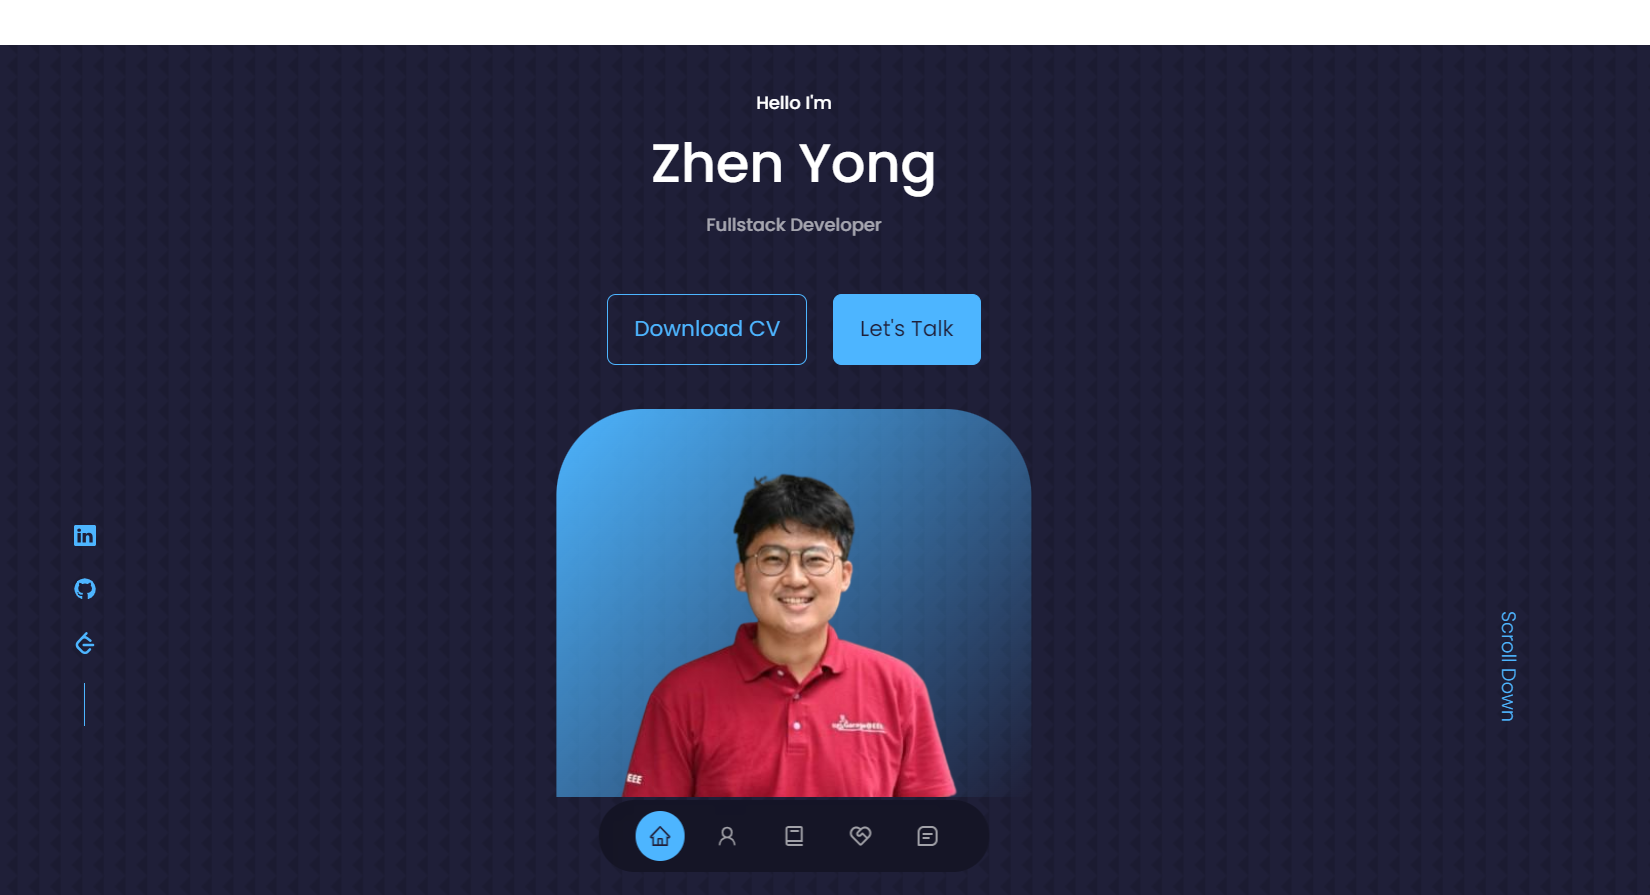
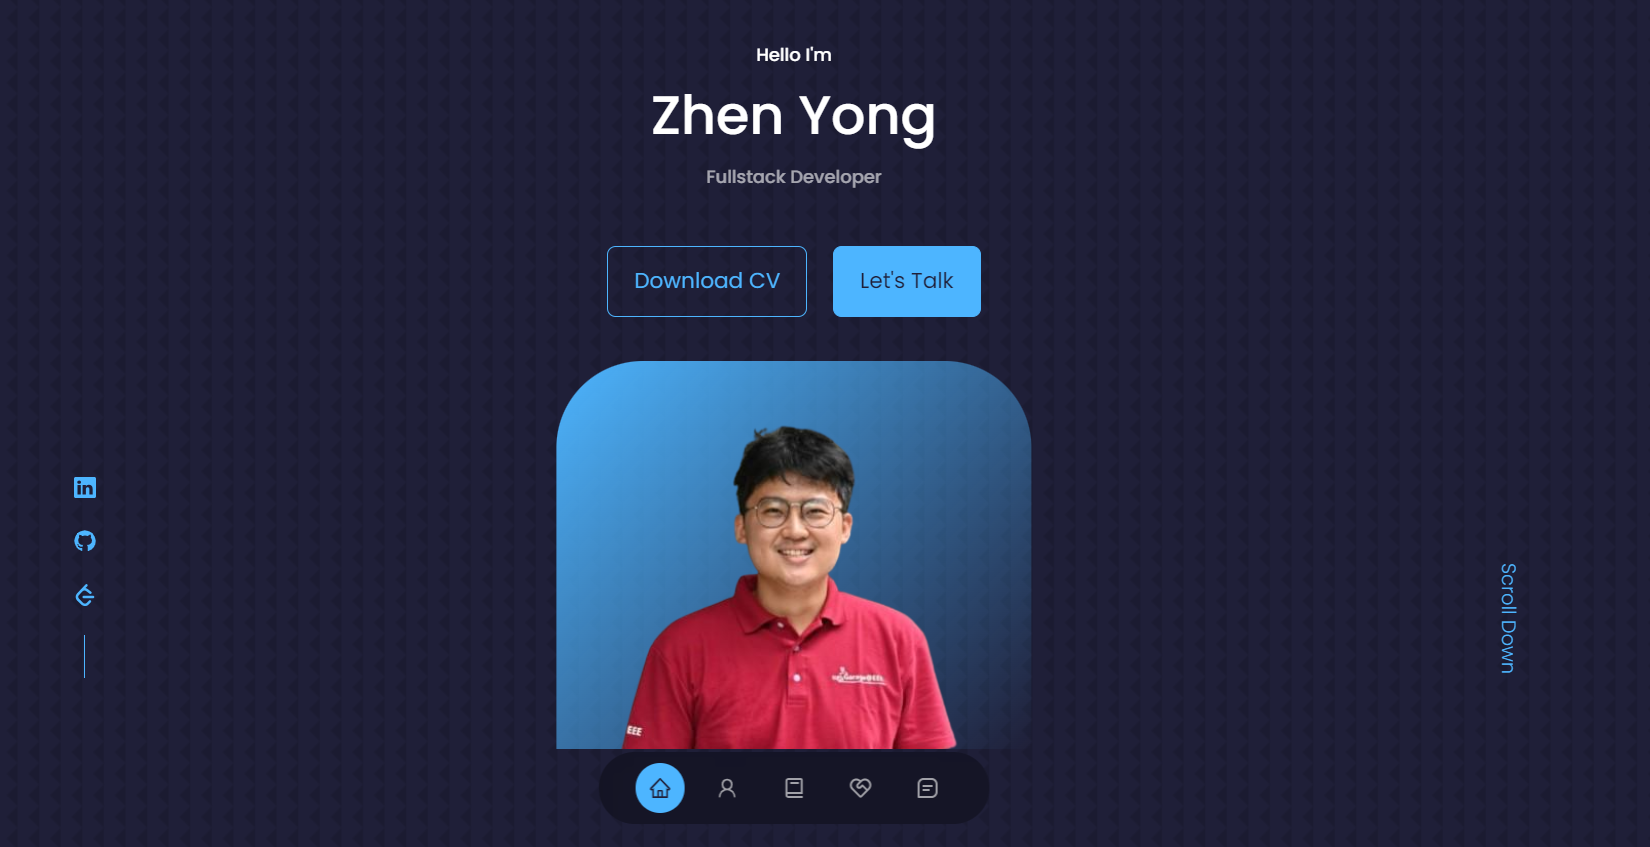
Updated Changes

diff --git a/src/components/portfolio/Portfolio.jsx b/src/components/portfolio/Portfolio.jsx
@@ -1,48 +1,46 @@
 import React from "react";
 import './portfolio.css';  
-import ME from '../../assets/profile_pic.png'
 import img1 from '../../assets/personal-react-portfolio.png'
+import img3 from '../../assets/pizza-delivery.png'
+
+// import Swiper core and required modules
+import { Pagination, Navigation, Scrollbar, A11y } from 'swiper/modules';
+import { Swiper, SwiperSlide } from 'swiper/react';
+
+// Import Swiper styles
+import 'swiper/css';
+import 'swiper/css/pagination';
 
 const data = [
     {
         id: 1,
         image: img1,
         title: 'Personal React Portfolio',
+        description: 'Created my personal react portfolio using HTML, CSS, JavaScript and React.js',
         github: 'https://github.com/zhenyong25/personal-react-portfolio',
         demo: 'https://zhenyong-react-portfolio.netlify.app/'
     },
     {
         id: 2,
-        image: ME,
-        title: 'Web Application Project',
+        image: img1,
+        title: 'InTouch - Final Year Project',
+        description: '',
         github: 'https://github.com/zhenyong25',
         demo: 'https://github.com/zhenyong25'
     },
     {
         id: 3,
-        image: ME,
-        title: 'Design and Innovation Project',
+        image: img3,
+        title: 'Connectus - Pizza Delivery',
+        description: '',
         github: 'https://github.com/zhenyong25',
         demo: 'https://github.com/zhenyong25'
     },
     {
         id: 4,
-        image: ME,
-        title: 'Design and Innovation Project',
-        github: 'https://github.com/zhenyong25',
-        demo: 'https://github.com/zhenyong25'
-    },
-    {
-        id: 5,
-        image: ME,
-        title: 'Design and Innovation Project',
-        github: 'https://github.com/zhenyong25',
-        demo: 'https://github.com/zhenyong25'
-    },
-    {
-        id: 6,
-        image: ME,
-        title: 'Design and Innovation Project',
+        image: img1,
+        title: 'LemmaTree POCathon',
+        description: '',
         github: 'https://github.com/zhenyong25',
         demo: 'https://github.com/zhenyong25'
     },
@@ -55,28 +53,40 @@ const Portfolio = () => {
             <h5>My Recent Work</h5>
             <h2>Portfolio</h2>
 
-            <div className="container portfolio__container">
+            <Swiper className="container portfolio__container"
+             modules={[Navigation, Pagination, Scrollbar, A11y]}
+             spaceBetween={40}
+             slidesPerView={3}
+             navigation
+             pagination={{ clickable: true }}
+             scrollbar={{ draggable: true }}
+             onSwiper={(swiper) => console.log(swiper)}
+             onSlideChange={() => console.log('slide change')}>
 
                 {
                     data.map(({id, image, title, github, demo})=>{
                         return (
-                            <article key={id} className='portfolio__item'>
+                            <SwiperSlide key={id} className='portfolio__item'>
 
                                 <div className="portfolio__item-image">
                                     <img src={image} alt="" className="fit-image"/>
                                 </div>
 
                                 <h4>{title}</h4>
+
+                                <div className="tech__stack">
+                                </div>
+                
                                 <div className="portfolio__item-cta">
                                     <a href={github} className='btn'>Github</a>
                                     <a href={demo} className='btn btn-primary' target="_blank" rel="noreferrer">Live Demo</a>
                                 </div>
-                            </article>    
+                            </SwiperSlide>    
                         )
                     })
                 }
             
-            </div>
+            </Swiper>
         </section>
     )
 }

diff --git a/src/components/experience/Experience.jsx b/src/components/experience/Experience.jsx
@@ -26,7 +26,7 @@ const Experience = () => {
                 scrollbar={{ draggable: true }}
                 onSwiper={(swiper) => console.log(swiper)}
                 onSlideChange={() => console.log('slide change')}>
-
+            
                 <SwiperSlide className="experience__card">
                     {/* FRONTEND DEVELOPMENT  */}
                     <h3>Frontend Development</h3>
@@ -133,7 +133,21 @@ const Experience = () => {
                             <BsPatchCheckFill className="experience__details-icon"/>
                             <div>
                                 <h4>Mongoose</h4>
-                                <small className='text-light'>Begineer</small>
+                                <small className='text-light'>Beginner</small>
+                            </div>
+                        </article>
+                        <article className="experience__details">
+                            <BsPatchCheckFill className="experience__details-icon"/>
+                            <div>
+                                <h4>Prisma</h4>
+                                <small className='text-light'>Beginner</small>
+                            </div>
+                        </article>
+                        <article className="experience__details">
+                            <BsPatchCheckFill className="experience__details-icon"/>
+                            <div>
+                                <h4>NextAuth</h4>
+                                <small className='text-light'>Beginner</small>
                             </div>
                         </article>
                     </div>
@@ -168,7 +182,7 @@ const Experience = () => {
                             <BsPatchCheckFill className="experience__details-icon"/>
                             <div>
                                 <h4>Metamask</h4>
-                                <small className='text-light'>Experienced</small>
+                                <small className='text-light'>Beginner</small>
                             </div>
                         </article>
                     </div>

diff --git a/src/components/portfolio/portfolio.css b/src/components/portfolio/portfolio.css
@@ -12,6 +12,12 @@
     transition: var(--transtion);  
 }
 
+.fit-image {
+    max-width: 100%;
+    max-height: 100%;
+    object-fit: contain;
+}
+
 .portfolio__item:hover {
     border-color: var(--color-primary-variant); 
     background: color; 
@@ -20,17 +26,12 @@
 .portfolio__item-image {
     border-radius: 1rem;
     overflow: hidden;
-    height: 10rem;
-    width: 19rem;
+    height: 8rem;
+    width: 16rem;
 }
 
-.fit-image {
-    width: 100%;
-    height: 100%;
-} 
-
 .portfolio__item h4 {
-    margin: 1.2rem 0 2rem; 
+    margin: 1rem 0 2.5rem; 
     text-align: center;
 }
 
@@ -38,7 +39,7 @@
     display: flex;
     justify-content: center;
     gap: 1rem; 
-    margin-bottom: 1rem; 
+    margin-bottom: 0.5rem; 
 }
 
 .personal__introduction {
@@ -48,6 +49,7 @@
 .personal__introduction p {
     overflow-wrap: break-word; 
 }
+
 
 /* A) MEDIUM DEVICES */
 @media screen and (max-width: 1024px){

diff --git a/src/components/contact/Contact.jsx b/src/components/contact/Contact.jsx
@@ -43,7 +43,7 @@ const Contact = () => {
                         <a href="mailto:zhenyong25@gmail.com" alt="" target="_blank" rel="noreferrer">Send a message</a>
                     </article>
 
-                    <article className="contact_option">
+                    {/* <article className="contact_option">
                         <MdOutlineEmail className='contact__option-icon'/>
                         <h4>Email</h4>
                         <h5>zhenyong25@gmail.com</h5>
@@ -55,7 +55,7 @@ const Contact = () => {
                         <h4>Email</h4>
                         <h5>zhenyong25@gmail.com</h5>
                         <a href="https://api.whatsapp.com/send?phone" alt="" target="_blank" rel="noreferrer">Send a message</a>
-                    </article>
+                    </article> */}
                 </div>
 
                 {/* END OF CONTACT OPTIONS */}

diff --git a/src/components/nav/nav.css b/src/components/nav/nav.css
@@ -3,14 +3,14 @@ nav {
     background: rgba(0,0,0,0.3); 
     width: max-content;   
     /* display: block; */
-    padding: 0.5rem 1.7rem; 
+    padding: 0.5rem 0.5rem; 
 
     /* DEBUG1: UNABLE TO SHOW NAV BAR WHEN EXCEEDS 1024PX SCREEN WIDTH */
     z-index: 9999;    
     /* the position is not affected by scrolling or the position of other element */
     position: fixed;   
-    left: 50%; 
-    bottom: 4%;       
+    right: 5%; 
+    bottom: 20%;       
     /* used to mvoe an element horizontally along the X-axis by a percentage of its own width, relative to its original position */
     transform: translateX(-50%);  
      
@@ -18,6 +18,7 @@ nav {
 
     /* icon styling */
     display: flex; 
+    flex-direction: column;
     gap: 0.8rem; 
     border-radius: 3rem;
     backdrop-filter: blur(15px);    

diff --git a/src/components/about/About.jsx b/src/components/about/About.jsx
@@ -44,7 +44,7 @@ const About = () => {
                     <article className="about__card">
                         <VscFolderLibrary className="about__icon"/>
                         <h5>Projects</h5>
-                        <small>10+ Completed Projects</small>
+                        <small>5+ Completed Projects</small>
                     </article>
                 </div>
 

diff --git a/src/components/header/Header.jsx b/src/components/header/Header.jsx
@@ -18,7 +18,7 @@ const Header = () => {
                     <img src={ME} alt="me"></img>
                 </div>
 
-                <a href='#contact' className="scroll__down">Scroll Down</a>
+                {/* <a href='#contact' className="scroll__down">Scroll Down</a> */}
             </div>
         </header>
     )

diff --git a/src/App.jsx b/src/App.jsx
@@ -18,7 +18,7 @@ const App = () => {
             <About/>
             <Experience/>
             <Portfolio/>
-            <Testimonials/>
+            {/* <Testimonials/> */}
             <Contact/>
             <Footer/>
             

diff --git a/src/index.css b/src/index.css
@@ -88,7 +88,7 @@ section > h2 {
 
 section > h5 {
     margin-top: 5rem; 
-    padding-top: 1.5rem;
+    padding-top: 1.6rem;
 }
 
 .text-light {
